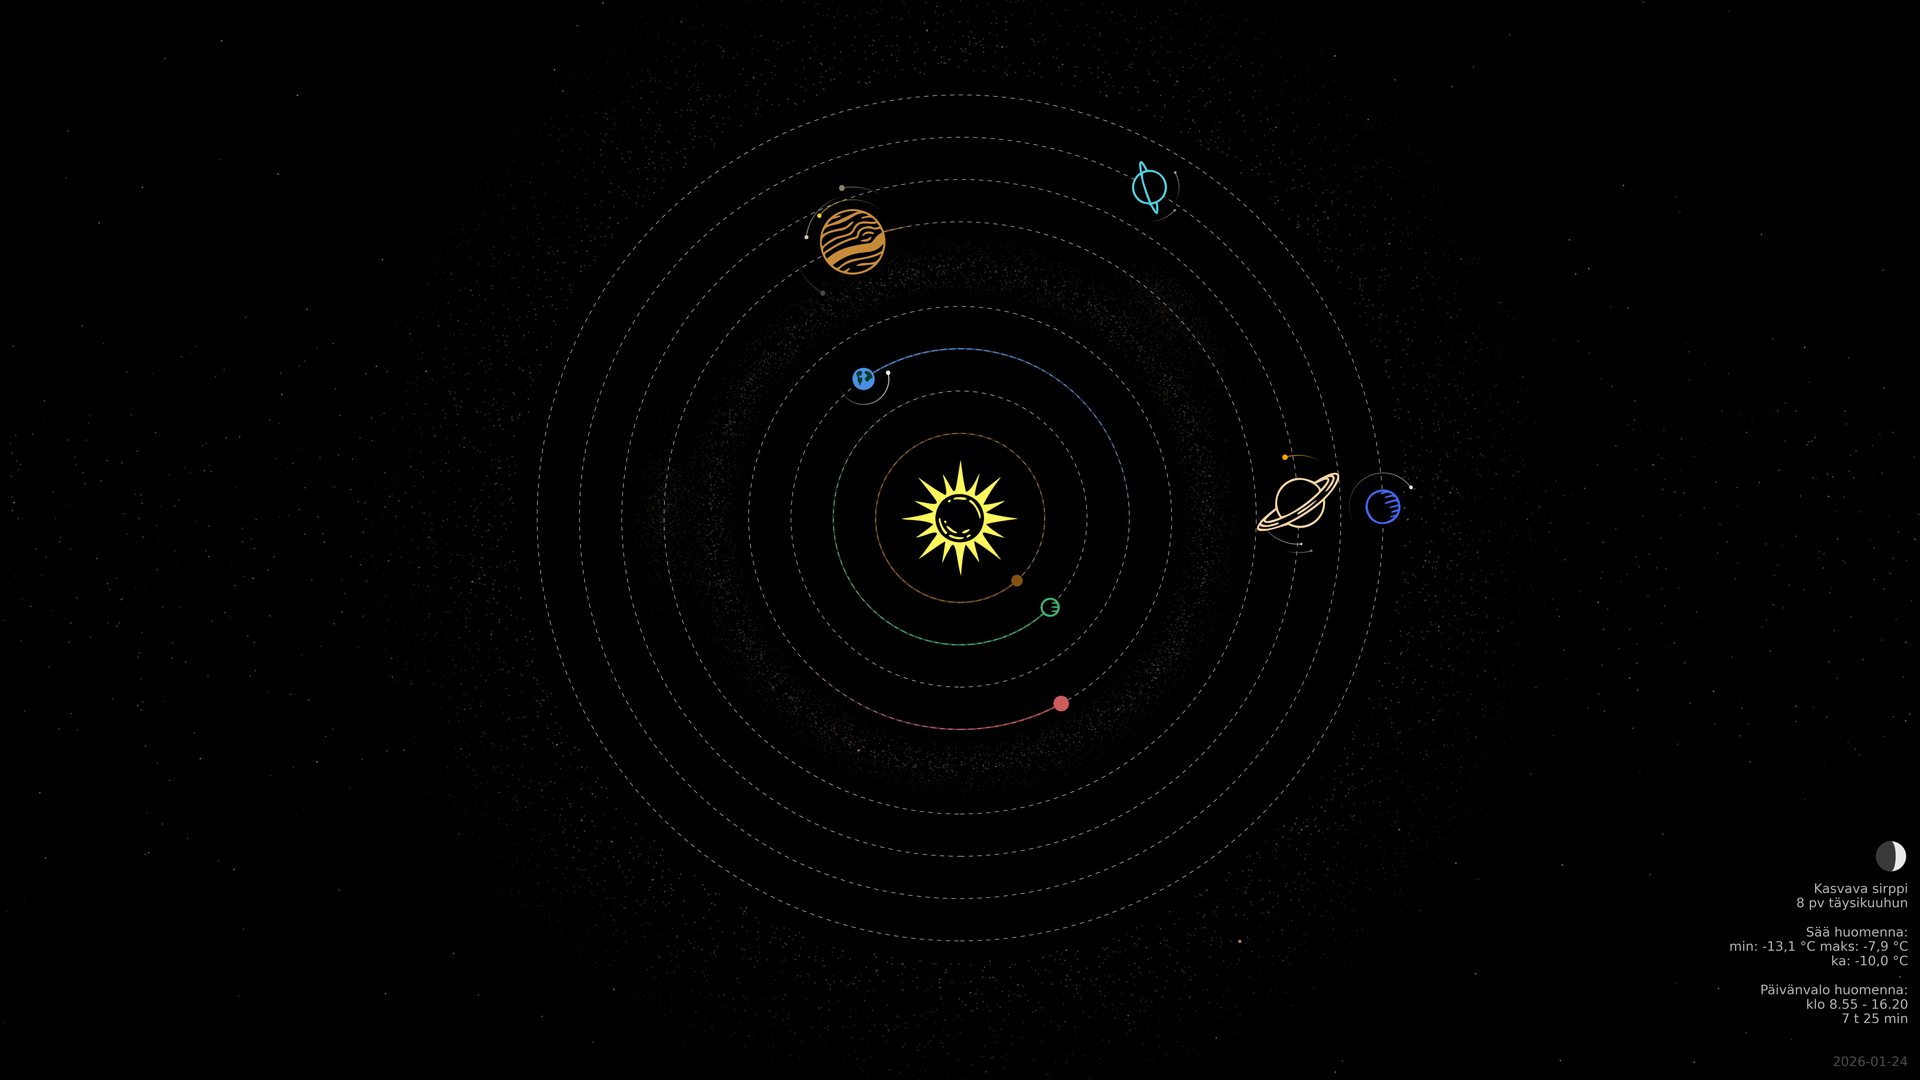
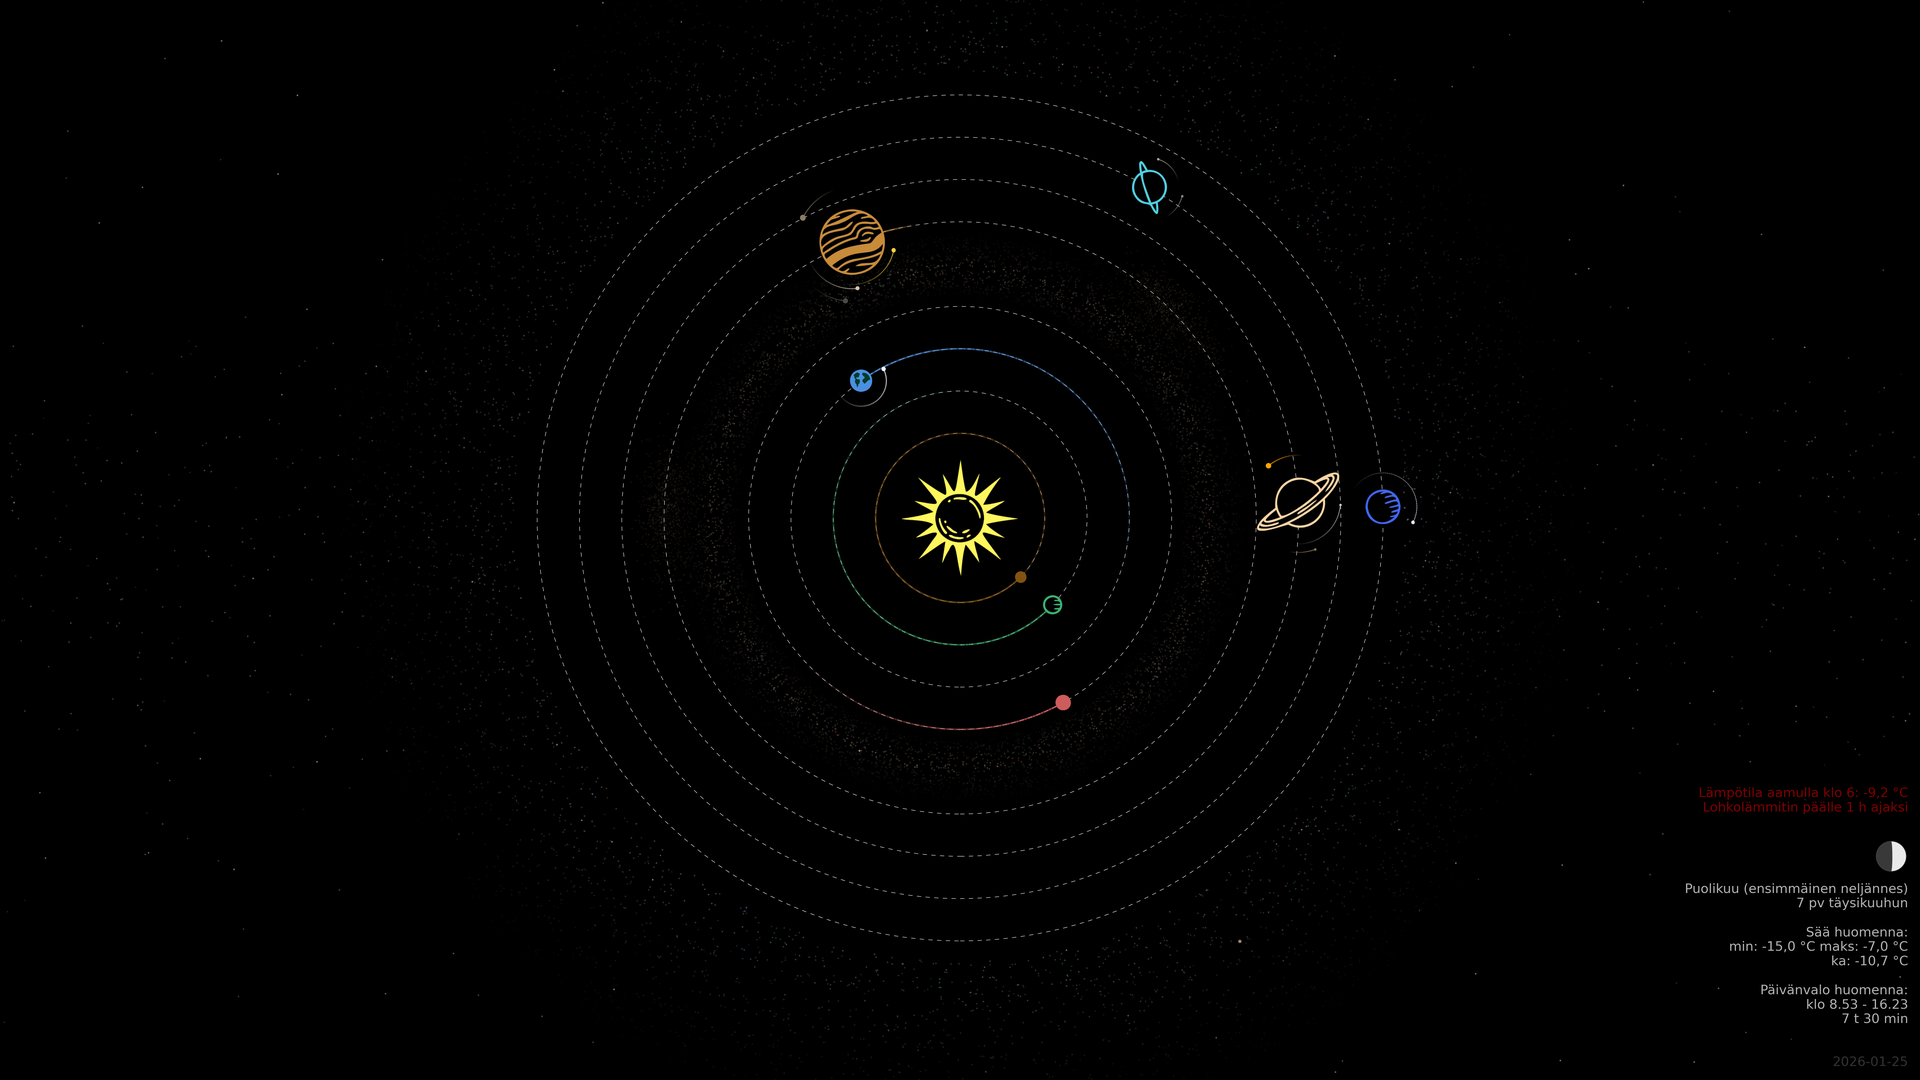
Conditional car block heater reminder added

diff --git a/solarmap.py b/solarmap.py
@@ -19,6 +19,7 @@ import datetime
 # 1. TO-DO LIST
 # ═══════════════════════════════════════════════════════════════════════════
 
+#TODO: Car block heater warning
 #TODO: Supersample multiplier to configuration
 #TODO: All magic numbers to configuration
 #TODO: Automatic wallpaper generation in Github Actions?
@@ -137,7 +138,7 @@ def svg_to_imagebox(svg_path, zoom=0.1, color=None):
 # ═══════════════════════════════════════════════════════════════════════════
 
 def get_tomorrow_forecast(lat, lon):
-    """Get tomorrow's min/max/avg temperature from FMI."""
+    """Get tomorrow's min/max/avg temperature and 6 AM temperature from FMI."""
     import requests
     import xml.etree.ElementTree as ET
     from datetime import datetime, timedelta
@@ -163,29 +164,58 @@ def get_tomorrow_forecast(lat, lon):
         print(f"FMI connection status: {response.status_code}")
         
         if response.status_code != 200:
-            return None, None, None
+            return None, None, None, None
         
         root = ET.fromstring(response.content)
         
+        # Parse timestamps and temperatures
+        timestamps = []
         temps = []
+        
+        # Find time positions (format: lat lon timestamp)
+        for elem in root.iter():
+            if 'positions' in elem.tag and elem.text:
+                position_data = elem.text.strip().split()
+                # Timestamps are at indices 2, 5, 8, etc.
+                for i in range(2, len(position_data), 3):
+                    timestamps.append(int(position_data[i]))
+        
+        # Find temperature values
         for elem in root.iter():
             if 'doubleOrNilReasonTupleList' in elem.tag:
                 values = elem.text.strip().split()
                 temps.extend([float(v) for v in values if v not in ['NaN', '']])
 
+        print(f"Parsed {len(timestamps)} timestamps and {len(temps)} temperatures")
+
+        # Find 6 AM temperature
+        morning_temp = None
+        if timestamps and temps and len(timestamps) == len(temps):
+            target_hour = 6
+            min_diff = float('inf')
+            for timestamp, temp in zip(timestamps, temps):
+                dt = datetime.fromtimestamp(timestamp)
+                hour_diff = abs(dt.hour - target_hour)
+                if hour_diff < min_diff:
+                    min_diff = hour_diff
+                    morning_temp = temp
+            print(f"Morning (6 AM) temp: {morning_temp}°C")
+
         if temps:
             avg_temp = sum(temps) / len(temps)
-            return min(temps), max(temps), avg_temp
+            return min(temps), max(temps), avg_temp, morning_temp
         else:
             print("No temps found!")
 
     except Exception as e:
         print(f"Exception: {e}")
+        import traceback
+        traceback.print_exc()
     
-    return None, None, None
+    return None, None, None, None
 
 # Get weather forecast
-min_temp, max_temp, avg_temp = get_tomorrow_forecast(latitude, longitude)
+min_temp, max_temp, avg_temp, morning_temp = get_tomorrow_forecast(latitude, longitude)
 weather_line = f"\nSää huomenna:\nmin: {min_temp:+.1f} °C maks: {max_temp:+.1f} °C\nka: {avg_temp:+.1f} °C\n".replace('.', ',') if min_temp is not None else ""
 
 # Get current time
@@ -973,6 +1003,24 @@ if show_info_text:
     moon_indicator_x = text_x - 0.04
     moon_indicator_y = text_y + (num_lines - 1) * line_height  # Top line position
     moon_radius = 0.035
+    
+# Car block heater warning if morning temp < 5°C
+    if morning_temp is not None and morning_temp < 5:
+        # Determine heating time based on temperature
+        if morning_temp >= -5:
+            heating_time = "0,5 h"
+        elif morning_temp >= -10:
+            heating_time = "1 h"
+        else:
+            heating_time = "2 h"
+        
+        warning_text = f"Lämpötila aamulla klo 6: {morning_temp:+.1f} °C\nLohkolämmitin päälle {heating_time} ajaksi".replace('.', ',')
+        warning_y = moon_indicator_y + 0.10
+        warning_x = moon_indicator_x + 0.04
+        ax.text(warning_x, warning_y, warning_text,
+                color='red', fontsize=12,
+                ha='right', va='bottom',
+                alpha=0.5)
 
     # Draw dark gray base circle
     ax.add_patch(plt.Circle((moon_indicator_x, moon_indicator_y), moon_radius, fill=True, color='#404040', alpha=0.9, zorder=10))
@@ -1038,7 +1086,7 @@ if show_info_text:
     ax.text(date_x, date_y, f"{date_str}",
             color='white', fontsize=12,
             ha='right', va='bottom',
-            alpha=0.3)
+            alpha=0.2)
 
 
 
